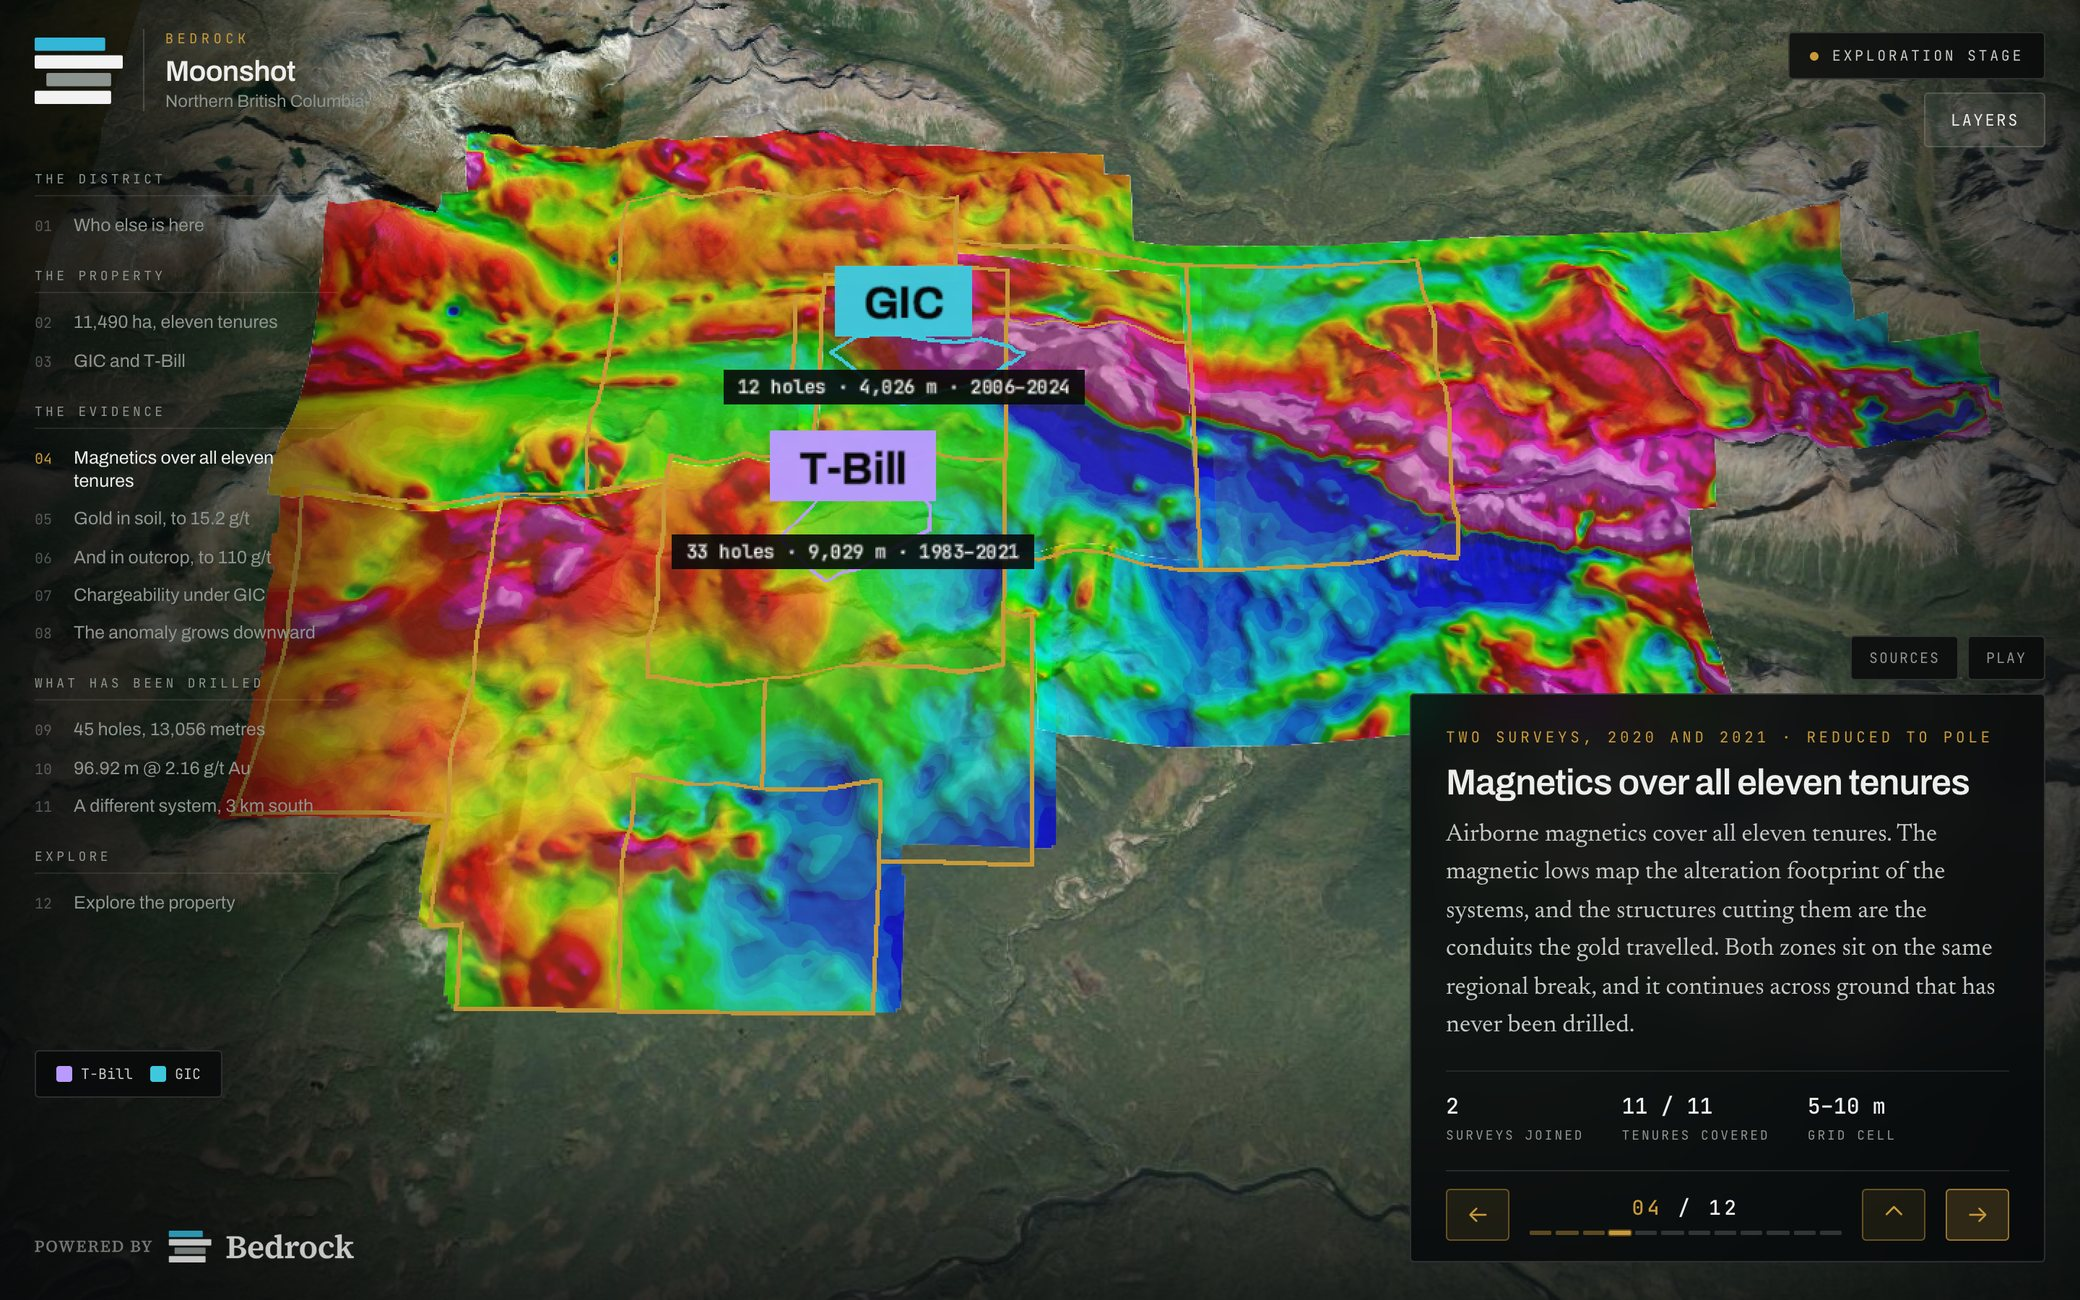
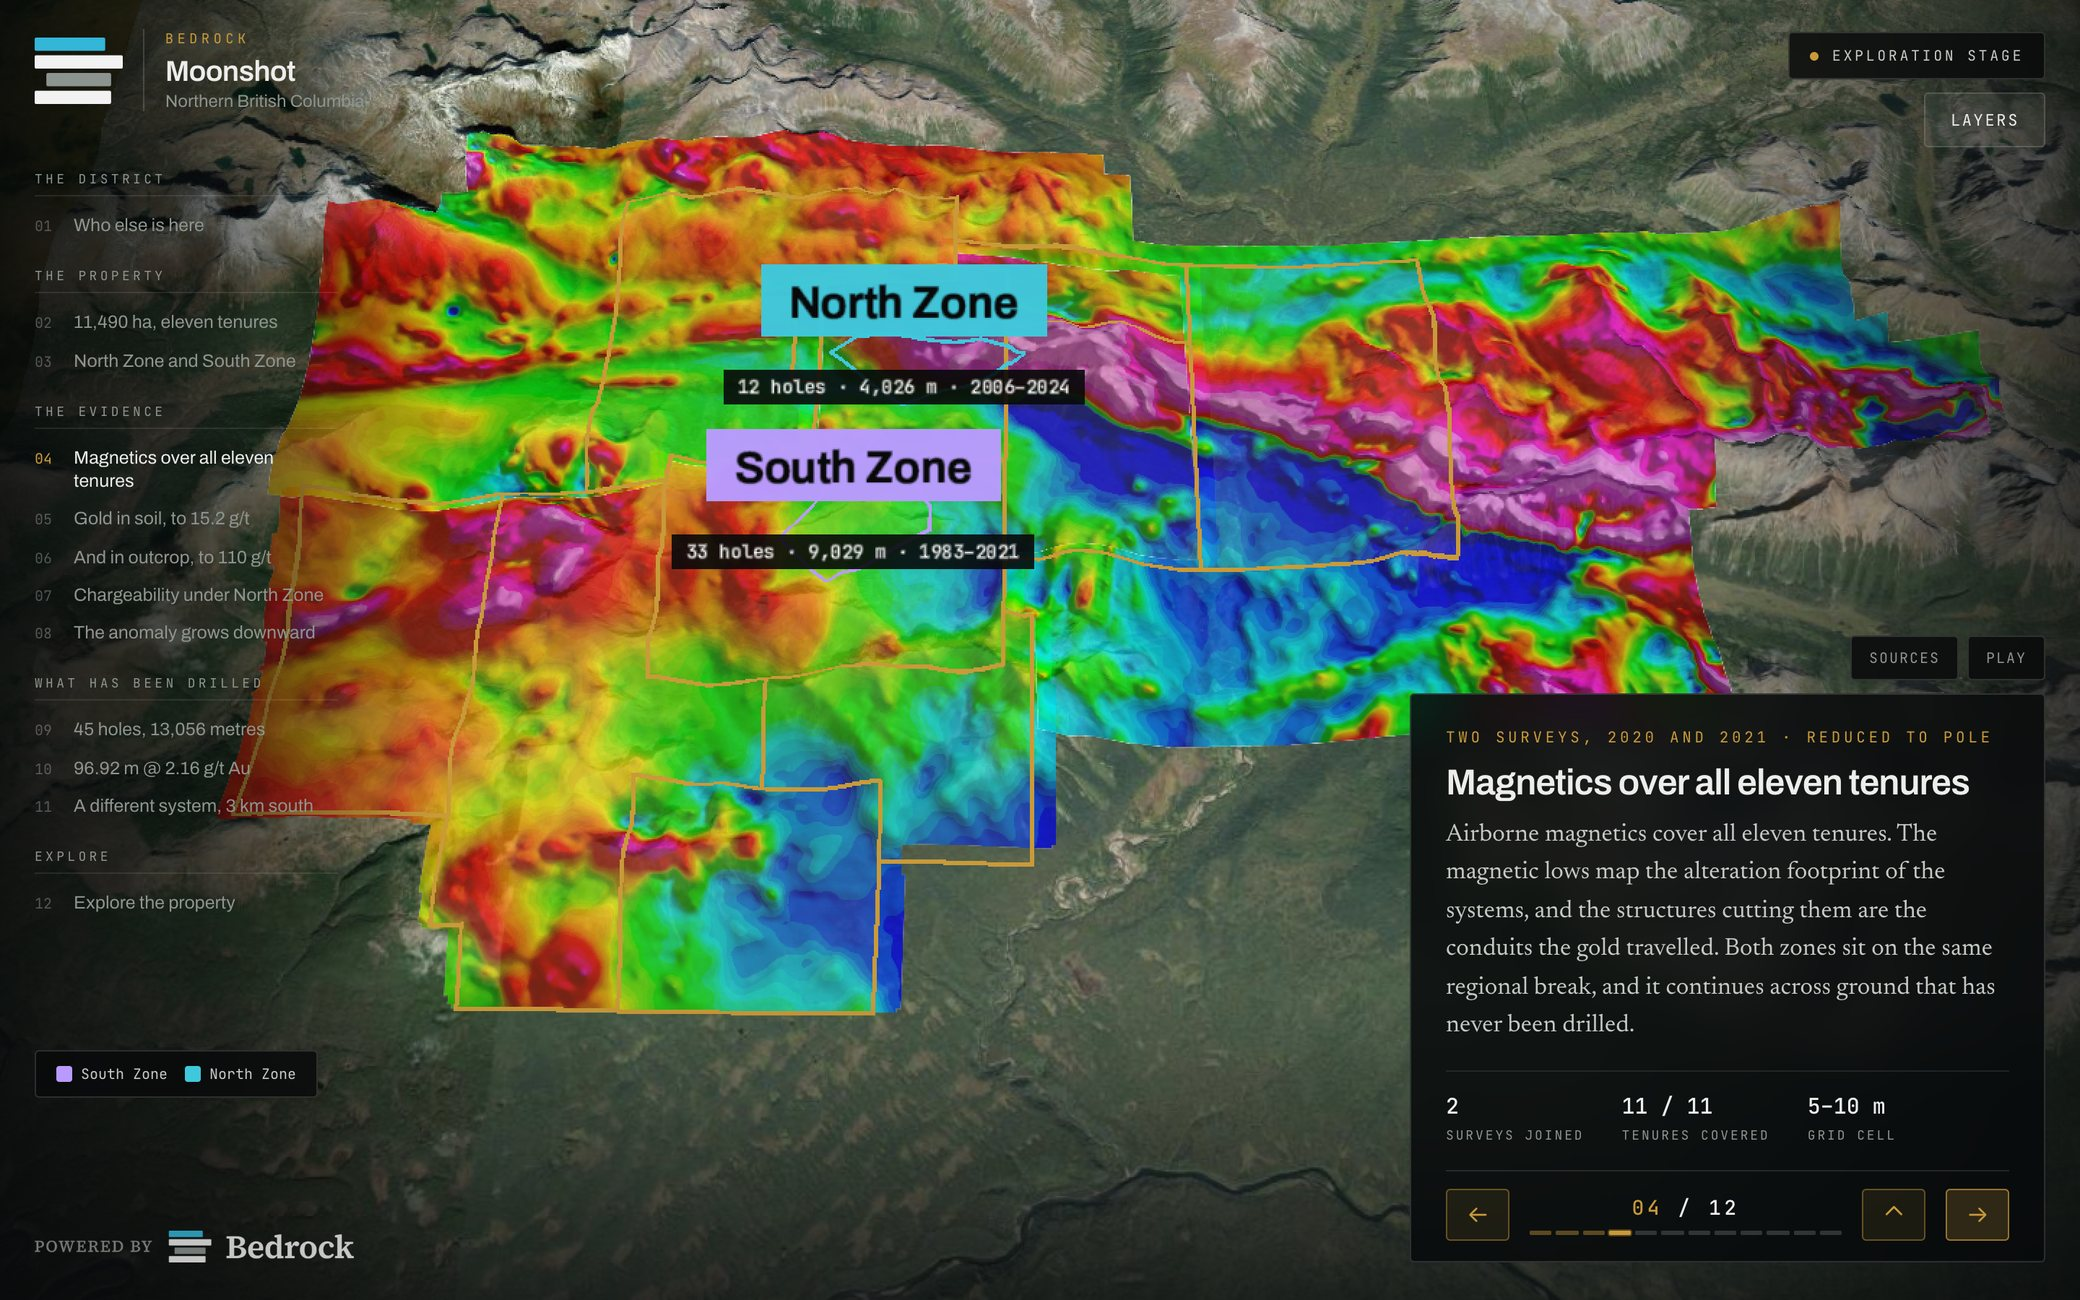
Give the slab a bezel you can actually see
The frame was tilting the whole time — the transform matrix said so and the
geometry agreed. It was 12px, which on a phone shrank to 7, and at that size
it reads as nothing: a photograph turning in mid-air with no device around
it. The bezel is what makes the turn legible, because the eye tracks the
frame's parallel edges converging rather than the picture inside them.

So it is sized as a proportion of the slab instead of in fixed pixels —
26px at desktop, 10px on a phone, a bezel at both — with two edges, a light
rim catching the room and a darker line where the frame turns away from it.
The phone perspective is shortened as well, so the same rotation reads as
more depth where there are fewer pixels for it to show in.

The zones are renamed North and South for the marketing capture. They are
drawn by Cesium from the data rather than by the DOM, so a text swap after
render cannot reach them — and the deck keys its zone COLOURS off the same
names, so renaming the data alone turns both zones grey. The document and
the data are rewritten together on the way into the browser, which changes
both and leaves nothing behind on disk. The deck itself is untouched.

diff --git a/index.html b/index.html
@@ -170,16 +170,27 @@ figure video { position: absolute; inset: 0; width: 100%; height: 100%; object-f
   margin: 16px auto 0; max-width: 46ch; }
 
 .device { margin: 0 auto; max-width: 1040px; perspective: 1400px; }
-/* The bezel, not a picture of one: a matte slab with a hairline edge. This page
+/* The bezel, not a picture of one: a matte frame with a hairline edge. This page
    is white and technical and a glossy chrome mockup would be a different
-   product's marketing. */
+   product's marketing.
+
+   It is deliberately THICK. At 12px it was geometrically correct and read as
+   nothing — a tilting screenshot with no device around it, which on a phone
+   (where it shrank to 7px) disappeared entirely. A bezel is what makes the
+   turn legible: the eye tracks the frame's parallel edges converging, not the
+   photograph inside it. So it is sized as a proportion of the slab rather than
+   in fixed pixels, which also keeps it a bezel at every width. */
 .device-shell {
   transform: rotateX(calc((1 - var(--p)) * 20deg)) scale(calc(1 + (1 - var(--p)) * 0.05));
   transform-origin: 50% 0;
-  border-radius: 22px; padding: 12px;
-  background: #17191c; border: 1px solid #2a2d31;
-  box-shadow: 0 1px 1px #0000000d, 0 8px 18px #00000014, 0 34px 44px #0000001a,
-              0 70px 70px #0000000f;
+  border-radius: clamp(18px, 2.4vw, 30px); padding: clamp(10px, 2.1vw, 26px);
+  background: #15181b;
+  /* Two edges, because a real one has two: a light rim catching the room, and
+     a darker line where the frame turns away from it. */
+  border: 1px solid #33383d;
+  box-shadow: inset 0 1px 0 #ffffff1f, inset 0 -1px 0 #00000059,
+              0 1px 1px #0000000d, 0 10px 22px #00000017, 0 38px 50px #0000001f,
+              0 78px 78px #00000012;
   will-change: transform;
 }
 /* `position: relative` is load-bearing. The page sets `figure img { position:
@@ -188,15 +199,15 @@ figure video { position: absolute; inset: 0; width: 100%; height: 100%; object-f
    absolutely positioned descendants. So the screenshot filled the bezel's
    padding box instead of the screen's: a 12px overhang on all four sides,
    sitting on top of the frame it was supposed to sit inside. */
-.device-screen { position: relative; border-radius: 12px; overflow: hidden;
+.device-screen { position: relative; border-radius: clamp(6px, 0.9vw, 11px); overflow: hidden;
   background: #07090A; aspect-ratio: 16/10; }
 .device-screen img { display: block; width: 100%; height: 100%; object-fit: cover; }
 .device { text-align: center; }
 
 @media (max-width: 760px) {
-  .device { perspective: 900px; }
-  .device-shell { border-radius: 16px; padding: 7px; }
-  .device-screen { border-radius: 9px; }
+  /* Shorter perspective so the same rotation reads as more depth on a small
+     screen, where there are fewer pixels for the convergence to show in. */
+  .device { perspective: 760px; }
 }
 /* The reader asked for the page, not for a performance. */
 @media (prefers-reduced-motion: reduce) {
